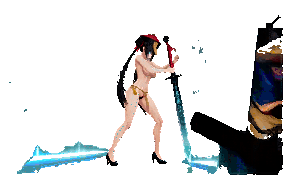
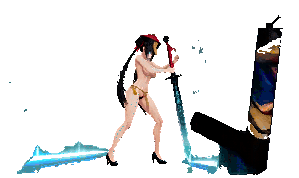
Zhusha cut-offs r5: squeezed windups keep their smears (the Q's beam, the ult chain's and the ult Q's), the ult finisher's ghost hilt ends on its own side, the ult chain shot in frame
- The windup squeeze dropped 1-tick drawings (the audit's "skipped drawings"): zhusha/contract.ts windupClip, used by
  draw.ts only, gives every windup drawing a tick when there are enough (uf_m1_1 f004 and uf_m1_2 f004, the smears into
  the hit, now show) and, with fewer ticks than drawings, shows where the windup has got to by each tick's end, so the
  last tick before the boom is the smear (skill_q: f001 swing, f002 dash, f004 beam, then the boom; was f000 stand,
  f001, f003; uf_skill_q f001, f002, f004; was f000, f002, f003). The normal chain shows exactly the drawings it did;
  the hit tick, windows, root motion and hit boxes are unchanged (moveToClip).
- uf_m1_4 f014: the ghost sword's hilt ended on the canvas's right bound (a 145 px ruler-vertical edge at x 281-282;
  round 1's dither was a screen-door, round 4 put live's back). Its right side now runs parallel to its left (the hilt
  leans), with a dark rim and rounded corners; nothing added or dithered, her and her blade untouched. derived.json:
  hash / area only.
- cutoffs.test.mjs: the squeeze test (fails on moveToClip: uf_m1_1 f004 dropped, the Q's last windup tick not the
  smear); PIPELINE.md 3.17 notes, and how the ult chain's redraw can get carried trails (uf_m1_N_trail).
Evidence: lanes\zhusha-1021b\cutoffs\ba\r5\ (live 4d48bcd0 vs this, same script, the ult form shot in its own page:
round 4's preview had her off the frame's left edge after the R) and the preview lanes\zhusha-1021b\cutoffs\compare\.

Changed region(s): [[0.8729, 0.2528, 0.9632, 0.9831]]

diff --git a/src/tesu/zhusha/contract.ts b/src/tesu/zhusha/contract.ts
@@ -145,6 +145,43 @@ export function moveToClip(t: number, moveHitAt: number | null, clipHitAt: numbe
   return clipHitAt + (t - moveHitAt);
 }
 
+/**
+ * (cutoffs r5, the audit's "skipped drawings": the squeeze never showed a 1-tick windup drawing, so skill_q's beam
+ * smear f004, the ult chain's smears uf_m1_1 f004 / uf_m1_2 f004 and uf_skill_q f001 / f004 were lost) The clip tick to
+ * draw on move tick t while the windup is squeezed onto the hit (moveHitAt < clipHitAt): every windup drawing gets a
+ * move tick of its own, the spare ticks shared by the drawings' own lengths; with fewer ticks than drawings each tick
+ * shows where the windup has got to by the tick's end (the smear into the hit is never the one dropped). The hit
+ * drawing still shows on moveHitAt, after it the clip runs 1:1 (moveToClip); a stretched windup is moveToClip's.
+ */
+export function windupClip(t: number, moveHitAt: number | null, clipHitAt: number | null, starts: readonly number[]): number {
+  const c = moveToClip(t, moveHitAt, clipHitAt);
+  if (moveHitAt === null || clipHitAt === null || moveHitAt <= 0 || t >= moveHitAt || moveHitAt >= clipHitAt) return c;
+  // the windup's drawings: those that start before the hit drawing
+  let n = 0;
+  while (n < starts.length && starts[n]! < clipHitAt) n++;
+  if (n <= 1) return c;
+  const m = moveHitAt, k = Math.max(0, Math.min(m - 1, Math.floor(t)));
+  const len = (i: number): number => (i + 1 < n ? starts[i + 1]! : clipHitAt) - starts[i]!;
+  let pick: number;
+  if (m >= n) {
+    // a tick each, the spare ones by length (largest remainder, earlier drawing on a tie)
+    const share = Array.from({ length: n }, (_, i) => ((m - n) * len(i)) / clipHitAt);
+    const got = share.map((s) => 1 + Math.floor(s));
+    let left = m - got.reduce((a, b) => a + b, 0);
+    const order = share.map((s, i) => [s - Math.floor(s), i] as const).sort((a, b) => b[0] - a[0] || a[1] - b[1]);
+    for (let j = 0; left > 0; j = (j + 1) % n, left--) got[order[j]![1]]!++;
+    pick = 0;
+    for (let acc = got[0]!; acc <= k; acc += got[++pick]!);
+  } else {
+    // fewer ticks than drawings: each tick shows where the windup has got to by its end (the last tick the smear into
+    // the hit, the first one already in from the rest pose she stood in), by the drawings' own lengths
+    const u = ((k + 1) * clipHitAt) / m - 1e-6;
+    pick = 0;
+    while (pick + 1 < n && starts[pick + 1]! <= u) pick++;
+  }
+  return starts[pick]!;
+}
+
 /** A drawing's marks as clip ticks (null where the clip carries none: the controller keeps feel.json's numbers). */
 export interface ArtMarks {
   total: number;

diff --git a/src/tesu/zhusha/draw.ts b/src/tesu/zhusha/draw.ts
@@ -10,7 +10,7 @@
 import type { RGB } from "../../lab/engine/renderer.ts";
 import type { WorldRenderer } from "../../world/render/renderer.ts";
 import { drawArt, SLOTS, type AnimSet, type Slot } from "./anims.ts";
-import { clipAtRoot, drawingIndex, moveToClip } from "./contract.ts";
+import { clipAtRoot, drawingIndex, windupClip } from "./contract.ts";
 import { ART_PX, BODY_H, FEEL, type AnimState, type Zhusha } from "./controller.ts";
 import { IdlePlayer, seeded } from "./idle.ts";
 import { drawDiveBlur, drawUltBack, drawUltFront } from "./ultdraw.ts";
@@ -64,7 +64,8 @@ export class ZhushaDraw {
   private clipTime(a: AnimState, slot: Slot, z: Zhusha): number {
     const U = FEEL.ult;
     const fit = (len: number): number => (a.t / Math.max(1, len)) * slot.total;
-    if (MOVES.has(a.role)) return moveToClip(a.t, a.hitAt, a.clipHitAt !== undefined ? a.clipHitAt : (slot.hitTicks[0] ?? null));
+    // (cutoffs r5) a squeezed windup shows every drawing it can, the smear into the hit last (contract.ts windupClip)
+    if (MOVES.has(a.role)) return windupClip(a.t, a.hitAt, a.clipHitAt !== undefined ? a.clipHitAt : (slot.hitTicks[0] ?? null), slot.starts);
     // a walk / run cycle with root motion plays by the distance covered: her feet stay planted at any speed
     if ((a.role === "run" || a.role === "walk") && slot.marks.root) return clipAtRoot(slot.def.frames, slot.marks.root, (a.dist ?? 0) / ART_PX);
     switch (a.role) {

diff --git a/docs/character/PIPELINE.md b/docs/character/PIPELINE.md
@@ -1367,6 +1367,14 @@ charScale (1.1 x 96 = 105.6 world px, `zhusha/feel.json`), i.e. 0.825 world px p
   rounded lumps, with the shape's outline put back where it had one; tiny islands go. Her skin, outfit, hat, blade and
   the ghost swords are protected (warm and near-black px are never removed, and an effect's edge is measured from the
   effect, not from her sleeve beside it). Then `derive.mjs` + `hitkeep.py --dry` (0 differences vs live). [proven]
+- (cutoffs r5 2026-10-22) A windup squeezed onto its hit (feel.json's hit tick earlier than the drawing's) never drops
+  a drawing it has the ticks for, and never the smear into the hit: `zhusha/contract.ts` `windupClip` (draw.ts only;
+  the hit tick, windows, root and hit boxes are moveToClip's as before). Fewer ticks than drawings (the Q: 3 for 5):
+  each tick shows where the windup has got to by its end. The normal chain shows the same drawings as before; the
+  Q, the ult Q and the ult chain's first two moves get their smears back. [proven, `cutoffs.test.mjs`, cutoffs\ba\r5\]
+- (cutoffs r5) A carried trail needs `public/assets/fx/<slot>_trail` for the slot (the normal chain has them). The ult
+  chain has none: its drawings are being redrawn (lanes\zhusha-1021b\ultchain); once they settle, export each move's
+  trail layer as `uf_m1_N_trail` (same canvas, pivot and ticks) and `trailOn` carries it when a mash cuts the drawing.
 
 ---
 
